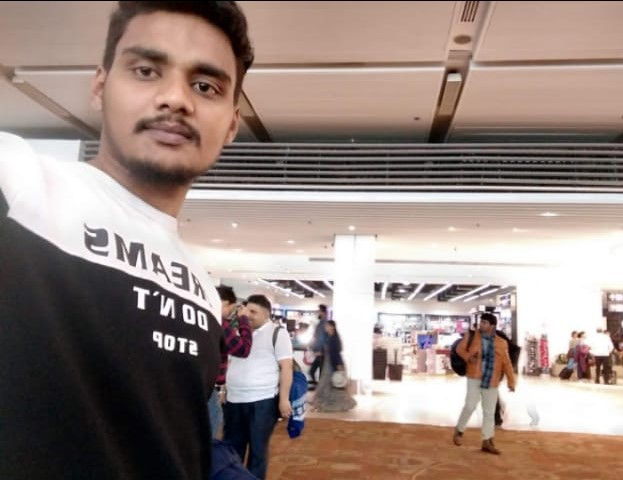
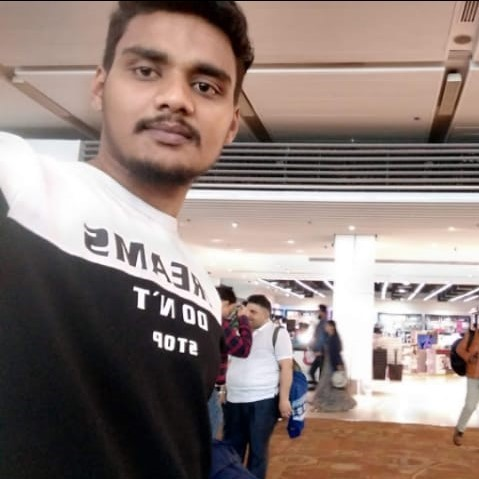
1.7

diff --git a/about.html b/about.html
@@ -164,7 +164,7 @@ Our training programs are carefully and scientifically designed to bring out the
           </div>
           <div class="col-md-4">
             <div class="team-item">
-              <img src="assets/images/t2.jpeg" alt="">
+              <img src="assets/images/t2.jpeg" alt="" width= "400" height = "400">
               <div class="down-content">
                 <h4>Ajay Kumar</h4>
                 <span>Co-Founder</span>
@@ -174,7 +174,7 @@ Our training programs are carefully and scientifically designed to bring out the
           </div>
           <div class="col-md-4">
             <div class="team-item">
-              <img src="assets/images/t1.jpeg" alt="">
+              <img src="assets/images/t1.jpeg" alt="" width= "400" height = "400">
               <div class="down-content">
                 <h4>Subshash Kumar Mahato</h4>
                 <span>Financial Analyst</span>
@@ -184,7 +184,7 @@ Our training programs are carefully and scientifically designed to bring out the
           </div>
           <div class="col-md-4">
             <div class="team-item">
-              <img src="assets/images/t3.jpg" alt="">
+              <img src="assets/images/t3.jpg" alt="" width= "400" height = "400">
               <div class="down-content">
                 <h4>Hardik Vij</h4>
                 <span>Chief Marketing Officer</span>
@@ -203,7 +203,6 @@ Our training programs are carefully and scientifically designed to bring out the
               <h2>Mission And<em> Vision</em></h2>
              	  <p>To create a world where young people are encouraged to celebrate fun and excitement of science and technology, and inspire them to take science and technology based career paths to become tomorrow’s much needed technology leaders.
 Encourage, develop and implement exciting, mentor based programs that inculcate interest towards science and technology in the minds of young people, inspiring them to meet the challenges of the global, technology-driven society through innovation, collaboration, and creative problem solving.
-
 </p>
 		 <a href="about.html" class="filled-button">Read More</a>
             </div>
